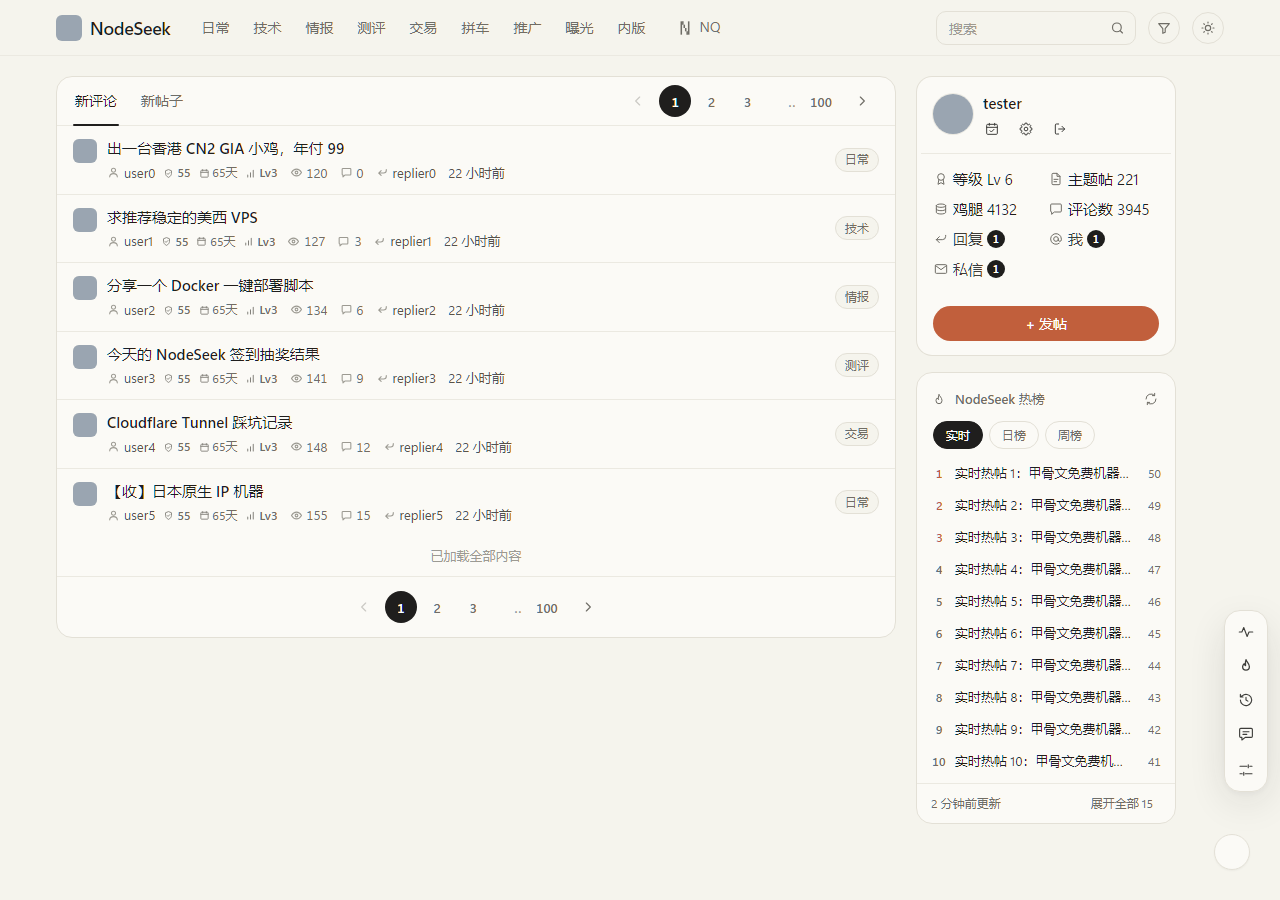
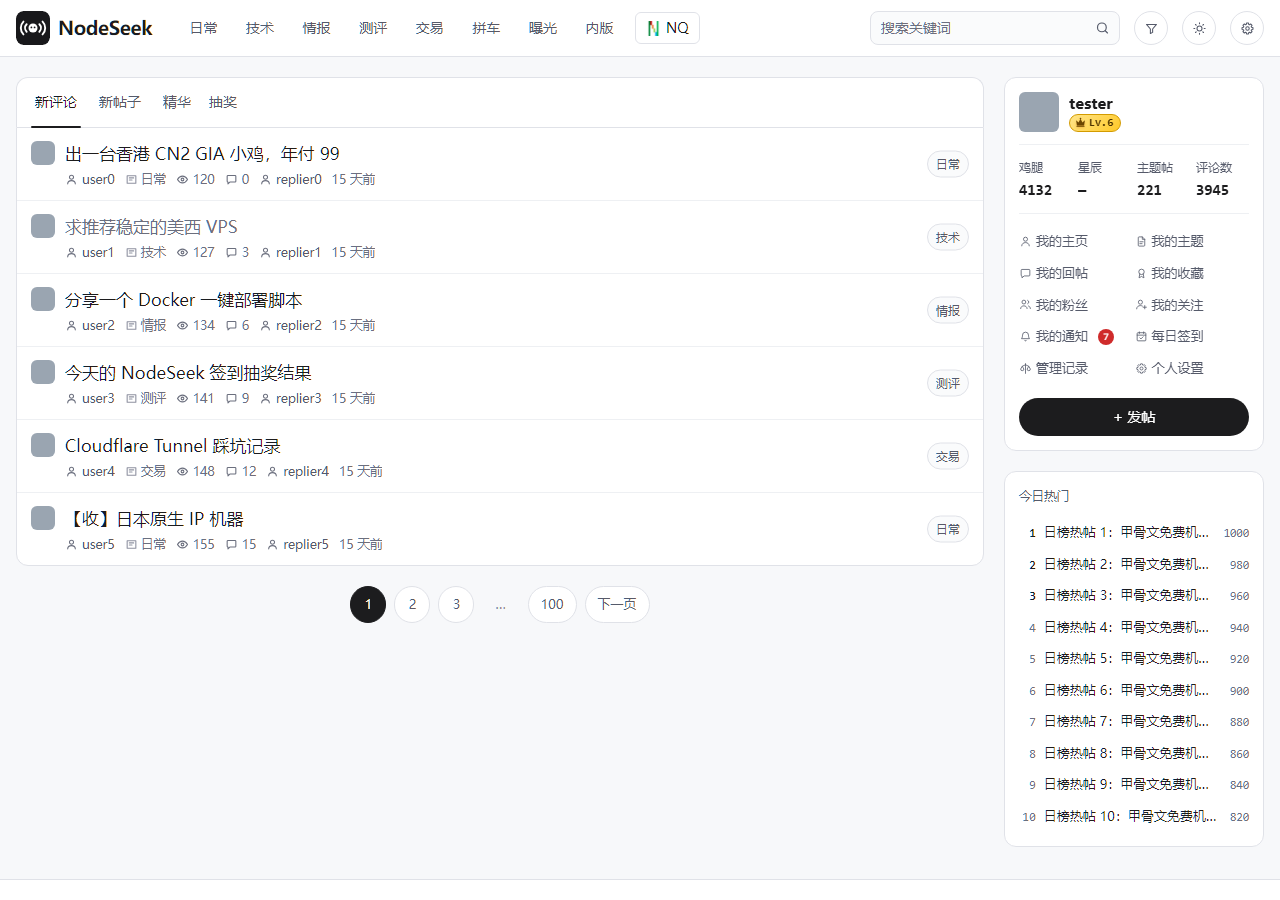
chore: 仓库内容更新到 1.8.7——说明文档、截图、开发依赖和 CI 动作
- README：功能列表按 1.8.7 重写，加四张截图（首页、帖子深色、我的通知、脚本设置）
- docs/screenshots：四张截图换成现在的 sb.sb 界面（以前还是 1.6.9 的样子）
- 开发依赖：playwright 1.56.1 → 1.64.1，postcss 8.5.6 → 8.5.30，postcss-selector-parser 7.1.0 → 7.1.6（编译出的主题不变，118 条测试通过）
- 工作流：actions/checkout、actions/setup-node v4 → v7，Node 22 → 24

diff --git a/README.md b/README.md
@@ -13,25 +13,30 @@ NodeSeek / DeepFlood 用户脚本，当前版本 **1.8.7**。界面按 [sb.sb](h
 
 [版本与安装文件](https://github.com/Ethan2258/Nodeseek-max/releases)
 
+| 首页 | 帖子（深色） |
+| --- | --- |
+| ![首页](docs/screenshots/home-light.png) | ![帖子页深色](docs/screenshots/post-dark.png) |
+| **我的通知** | **脚本设置** |
+| ![我的通知](docs/screenshots/messages-light.png) | ![脚本设置](docs/screenshots/settings-light.png) |
+
 ## 当前功能
 
 - 全站 sb.sb 样式，浅色、深色变量与 sb.sb 样式表原值一致；圆角与 sb.sb 相同（卡片 12px、输入框 8px、按钮与标签胶囊）。
-- 首先呈现当前页主题、过滤和编辑器，再启动热榜与其他增强；输入时不重复扫描整页。
-- 桌面个人卡、八个快捷入口、紧凑今日热门、本地最近浏览十条，以及纯文字 NQ 入口。
-- 个人空间使用统一的资料头部、四列统计、等级进度条和主题/评论列表分页。
-- 帖子列表默认不自动翻页（设置里可打开，自动接 3 页后改为点按钮继续）；评论默认按需追加，更新底部圆形页码，当前页明确引用整理为楼中楼；评论操作在右上角，保留图标和计数。
-- 回复与发帖统一 SB 编辑器，保留 Markdown、附件、表情、预览和粘贴图片（上传到论坛官方图床 NodeImage）；预览不留下空编辑器，提交仍由原站处理。
-- 帖子页回复区标题栏有「只看楼主」和「直达底部」；「只看楼主」只对当前帖子生效。
-- 发帖页编辑器提供“抽奖”快捷模板，一键填入抽奖标题与开奖信息字段；内容仍需手动检查，发布后的帖子链接再补到开奖链接字段。
-- 追加评论优先复用兼容的原生互动组件；不兼容时，互动入口打开该评论原页。
-- 通知与私信使用统一消息中心，列表先加载一页，通知正文按点击加载。
-- 保留外链直达、关键词过滤、黑名单通知过滤与代码复制。顶栏支持关键词及深浅色切换。
-- 深浅色支持浅色、深色和跟随系统；跟随系统只响应操作系统主题，不会被站点自己的主题类突然覆盖。
-- 脚本设置按 sb.sb 重做：外观、浏览、用户、工具、网络、关于六个分页，支持搜索、恢复默认、清空缓存、导入导出配置和检查更新，改动立即保存；跟随深浅色。
+- 打开快、不闪：脚本在页面画出来之前运行时，首帧整页一次画好（资料卡、列表、右栏都整理好）；站内跳转旧页面留到新页面好了才淡入切换。
+  长列表只画看得见的行，整页重算样式和排版少一半左右。
+- 列表工具条：新评论 / 新帖子 / 精华 / 抽奖（只收主帖有开奖链接的帖子）；顶栏版块标签和纯文字 NQ 入口。
+- 右侧栏：个人资料卡（鸡腿、星辰、主题帖、评论数和十个快捷入口，我的通知带未读数）、今日热门、本机最近浏览十条，三张卡片同一帧出现。
+- 帖子页照 sb.sb 经典排法：左边作者栏（头像、UID、等级、帖子 / 鸡腿 / 星辰），楼中楼收进那一层末尾，置顶回复、楼主标签、抽奖和投票卡片。
+- 回复与发帖统一 sb.sb 编辑器，保留 Markdown、附件、表情、预览和粘贴图片（上传到论坛官方图床 NodeImage）；回复某一层时回复框挪到那一层下面，提交仍由原站处理。
+- 帖子页回复区标题栏有「只看楼主」「直达底部」「简洁模式」；评论可自动接下一页，帖子列表默认不自动翻页。
+- 我的回复：列表和帖子里标出自己回复过的楼层（#4 #22 #32），点了直接跳过去。
+- 头像悬停资料卡：等级、鸡腿、星辰、主题与评论数、关注与粉丝、注册时长；可直接关注、私信、看主页、看管理记录、屏蔽（连站点黑名单）。
+- 我的通知：@我 / 回复主题 / 私信一张标签栏，通知整列显示、点一行直接打开那一楼；私信左右两栏。
+- 保留外链直达、关键词与用户屏蔽、黑名单通知过滤、代码复制、用户备注；各种提示统一成 sb.sb 屏幕下方的深色小条。
+- 深浅色支持浅色、深色、跟随系统和跟随站点；跟随系统只响应操作系统主题。
+- 脚本设置按 sb.sb 重做：外观、浏览、用户、工具、网络、关于六个分页，支持搜索、恢复默认、清空缓存、导入导出配置和检查更新，改动立即保存。
 
-头像悬停显示唯一资料卡，单个用户信息按需读取并缓存；个人空间、预览卡和搜索/主题切换均统一适配。
-
-移除信用分、信任分、旧阅读历史模块、帖子监控、回帖足迹、重复资料卡及旧工具条。默认字体与 sb.sb 相同：系统字体 + Space Mono 数字（首次在线下载后缓存）；不想联网下载可在设置里改为「系统字体」。
+移除信用分、信任分、旧阅读历史模块、帖子监控、回帖足迹（由「我的回复」代替）、本地好友、重复资料卡及旧工具条。默认字体与 sb.sb 相同：系统字体 + Space Mono 数字（首次在线下载后缓存）；不想联网下载可在设置里改为「系统字体」。
 
 ## 开发
 
